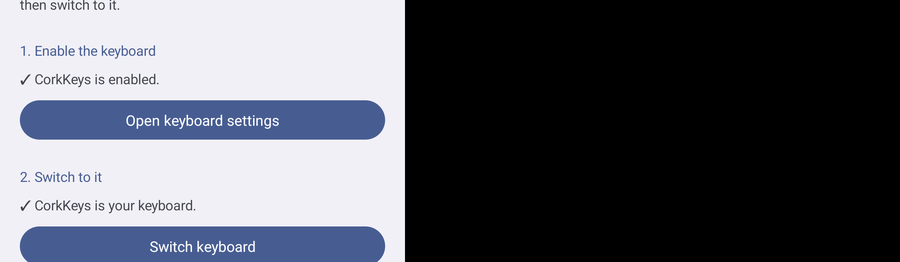
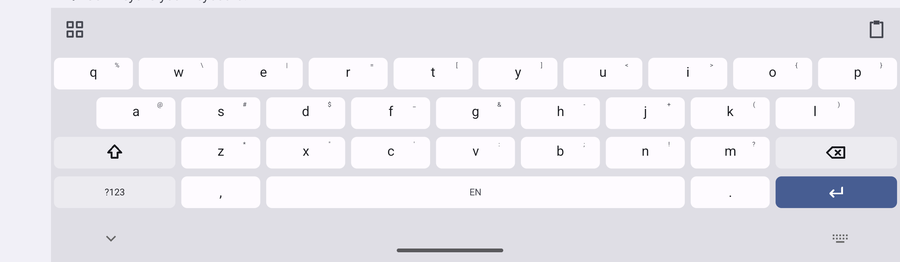
Incognito when apps ask for it; Taller and custom keyboard heights
Apps ask for incognito with IME_FLAG_NO_PERSONALIZED_LEARNING (Signal's
incognito keyboard setting, Firefox and Chrome private tabs). The keyboard
already learned nothing there; now it works like manual incognito too: the
space bar shows it and learned words stay out of suggestions.

Keyboard height gets a Taller preset (68 dp rows) and Custom, a slider from 40
to 96 dp per row. The cap on the screen's height still applies, so very tall
rows stop growing there.

Claude-Session: https://claude.ai/code/session_01MsbNdXmRHa3QQjMKrKv3XU

diff --git a/app/src/main/kotlin/io/github/nullangst/corkkeys/SettingsActivity.kt b/app/src/main/kotlin/io/github/nullangst/corkkeys/SettingsActivity.kt
@@ -84,11 +84,17 @@ class SettingsActivity : Activity() {
         add(Ui.header(this, pal, str(R.string.settings_keys)))
         switch(R.string.settings_number_row, prefs.numberRow) { prefs.numberRow = it }
         val heights = KeyHeight.entries
-        val heightNames = listOf(str(R.string.height_short), str(R.string.height_normal), str(R.string.height_tall))
-        add(Ui.row(this, pal, str(R.string.settings_height), heightNames[heights.indexOf(prefs.height)]) {
-            Ui.choose(this, pal, str(R.string.settings_height), heightNames, heights.indexOf(prefs.height)) {
-                prefs.height = heights[it]
-                build()
+        val heightNames = listOf(str(R.string.height_short), str(R.string.height_normal), str(R.string.height_tall), str(R.string.height_taller), str(R.string.height_custom))
+        val heightNow = if (prefs.customHeight) getString(R.string.height_custom_value, prefs.rowDp.toInt()) else heightNames[heights.indexOf(prefs.height)]
+        add(Ui.row(this, pal, str(R.string.settings_height), heightNow) {
+            val current = if (prefs.customHeight) heights.size else heights.indexOf(prefs.height)
+            Ui.choose(this, pal, str(R.string.settings_height), heightNames, current) {
+                if (it < heights.size) {
+                    prefs.height = heights[it]
+                    build()
+                } else {
+                    customHeight()
+                }
             }
         })
         switch(R.string.settings_bordered, prefs.bordered, R.string.settings_bordered_sub) { prefs.bordered = it }
@@ -158,6 +164,49 @@ class SettingsActivity : Activity() {
         add(Ui.note(this, pal, str(R.string.about_openboard)))
         list.addView(View(this), LinearLayout.LayoutParams(1, Ui.dp(this, 24f)))
         scroll.post { scroll.scrollTo(0, y) }
+    }
+
+    /** A slider for the row height, in dp, with the value shown as it moves. */
+    private fun customHeight() {
+        val min = Geometry.MIN_ROW_DP.toInt()
+        val max = Geometry.MAX_ROW_DP.toInt()
+        val label = android.widget.TextView(this).apply {
+            textSize = 16f
+            setTextColor(pal.text)
+            setPadding(Ui.dp(context, 24f), Ui.dp(context, 8f), Ui.dp(context, 24f), 0)
+        }
+        val bar = android.widget.SeekBar(this).apply {
+            this.max = max - min
+            progress = (prefs.rowDp.toInt() - min).coerceIn(0, max - min)
+            Ui.tint(this, pal)
+        }
+        fun show() {
+            label.text = getString(R.string.height_custom_value, bar.progress + min)
+        }
+        show()
+        bar.setOnSeekBarChangeListener(object : android.widget.SeekBar.OnSeekBarChangeListener {
+            override fun onProgressChanged(s: android.widget.SeekBar, p: Int, fromUser: Boolean) = show()
+            override fun onStartTrackingTouch(s: android.widget.SeekBar) {}
+            override fun onStopTrackingTouch(s: android.widget.SeekBar) {}
+        })
+        val box = LinearLayout(this).apply {
+            orientation = LinearLayout.VERTICAL
+            addView(label)
+            addView(bar, LinearLayout.LayoutParams(ViewGroup.LayoutParams.MATCH_PARENT, ViewGroup.LayoutParams.WRAP_CONTENT).apply {
+                setMargins(Ui.dp(context, 12f), Ui.dp(context, 12f), Ui.dp(context, 12f), Ui.dp(context, 4f))
+            })
+            addView(Ui.note(context, pal, getString(R.string.height_custom_note)))
+        }
+        android.app.AlertDialog.Builder(this, Themes.dialogTheme(pal))
+            .setTitle(R.string.height_custom_title)
+            .setView(box)
+            .setPositiveButton(android.R.string.ok) { _, _ ->
+                prefs.customRowDp = (bar.progress + min).toFloat()
+                prefs.heightRaw = Prefs.CUSTOM
+                build()
+            }
+            .setNegativeButton(android.R.string.cancel, null)
+            .show()
     }
 
     private fun open(url: String) {

diff --git a/app/src/main/kotlin/io/github/nullangst/corkkeys/KeyboardService.kt b/app/src/main/kotlin/io/github/nullangst/corkkeys/KeyboardService.kt
@@ -391,7 +391,7 @@ class KeyboardService : InputMethodService(), TouchHost, SuggestionStrip.Host, T
         }
         kv.enter = field.enter
         kv.spaceLabel = spaceLabel()
-        kv.setLayout(layout, frame(), prefs.height, mode(), rows)
+        kv.setLayout(layout, frame(), prefs.rowDp, mode(), rows)
         applyMode()
         syncPanelHeight()
         prepareDecoder()
@@ -399,8 +399,14 @@ class KeyboardService : InputMethodService(), TouchHost, SuggestionStrip.Host, T
 
     private fun spaceLabel(): String {
         val label = Languages.spaceLabel(prefs.language, prefs.languages, mixing())
-        return if (prefs.incognito) label + " · " + getString(R.string.space_incognito) else label
+        return if (incognito()) label + " · " + getString(R.string.space_incognito) else label
     }
+
+    /**
+     * Incognito: switched on by hand, or asked for by the app (Signal's incognito keyboard,
+     * private browser tabs). Nothing is learned and learned words aren't suggested.
+     */
+    private fun incognito(): Boolean = field.incognito(prefs.incognito)
 
     /** Words from every language that is on, in one sentence. Only matters with suggestions on. */
     private fun mixing(): Boolean = prefs.twoAtOnce && prefs.suggestions && prefs.languages.size > 1
@@ -458,7 +464,7 @@ class KeyboardService : InputMethodService(), TouchHost, SuggestionStrip.Host, T
         if (dicts.isEmpty() || dicts[0].language != prefs.language) return null
         val learned = LearnedWords.get(this)
         val removed = RemovedWords.get(this)
-        val learnOn = prefs.learn
+        val learnOn = prefs.learn && !incognito()
         val key = langs.joinToString(",") + "|" + dicts.size + "|" + learnOn + "|" + learned.version + "|" + removed.version
         if (key != correctorKey || corrector == null) {
             val keyMap = KeyMap.of(Letters.build(Letters.data(prefs.language), false))
@@ -522,7 +528,7 @@ class KeyboardService : InputMethodService(), TouchHost, SuggestionStrip.Host, T
 
     /** A word went in exactly as tapped out. Learned only with the switch on, outside incognito and private fields. */
     fun learn(word: String) {
-        val allowed = prefs.learn && !prefs.incognito && field.allowsLearning
+        val allowed = prefs.learn && !incognito() && field.allowsLearning
         if (!allowed) return
         val c = corrector() ?: return
         if (LearnedWords.get(this).typedInFull(word, true, c.inList(word))) correctorKey = ""

diff --git a/app/src/main/kotlin/io/github/nullangst/corkkeys/Geometry.kt b/app/src/main/kotlin/io/github/nullangst/corkkeys/Geometry.kt
@@ -32,7 +32,7 @@ class Box(val left: Float, val top: Float, val right: Float, val bottom: Float) 
  */
 class PlacedKey(val key: Key, val box: Box, val hit: Box, val row: Int)
 
-enum class KeyHeight(val dp: Float) { SHORT(48f), NORMAL(54f), TALL(60f) }
+enum class KeyHeight(val dp: Float) { SHORT(48f), NORMAL(54f), TALL(60f), TALLER(68f) }
 
 enum class Mode { DOCKED, ONE_LEFT, ONE_RIGHT, FLOATING }
 
@@ -86,7 +86,15 @@ object Geometry {
      * page with one row more than the letters squeezes its rows into the same space instead of
      * making the keyboard jump.
      */
-    fun plan(layout: Layout, frame: Frame, height: KeyHeight, mode: Mode, rowsForHeight: Int = layout.rows.size): Plan {
+    fun plan(layout: Layout, frame: Frame, height: KeyHeight, mode: Mode, rowsForHeight: Int = layout.rows.size): Plan =
+        plan(layout, frame, height.dp, mode, rowsForHeight)
+
+    /** The smallest and largest row height the custom height setting allows, in dp. */
+    const val MIN_ROW_DP = 40f
+    const val MAX_ROW_DP = 96f
+
+    /** Lays out [layout] with rows [rowDp] high, before the cap on the window's height. */
+    fun plan(layout: Layout, frame: Frame, rowDp: Float, mode: Mode, rowsForHeight: Int = layout.rows.size): Plan {
         val d = frame.density
         val usable = frame.usableWidth.toFloat()
         val floating = mode == Mode.FLOATING
@@ -111,7 +119,7 @@ object Geometry {
         }
 
         val pad = PAD_DP * d
-        var rowH = height.dp * d * (if (floating) FLOAT_SCALE else 1f)
+        var rowH = rowDp.coerceIn(MIN_ROW_DP, MAX_ROW_DP) * d * (if (floating) FLOAT_SCALE else 1f)
         val maxKeys = frame.windowHeight * (if (floating) FLOAT_MAX_HEIGHT_FRACTION else maxKeysFraction(frame))
         if (rowH * rowsForHeight > maxKeys) rowH = maxKeys / rowsForHeight
         val keysHeight = rowH * rowsForHeight

diff --git a/app/src/main/kotlin/io/github/nullangst/corkkeys/KeyboardView.kt b/app/src/main/kotlin/io/github/nullangst/corkkeys/KeyboardView.kt
@@ -26,7 +26,7 @@ class KeyboardView(ctx: Context, host: TouchHost) : View(ctx) {
         private set
     private var layout: Layout? = null
     private var frame: Frame? = null
-    private var keyHeight = KeyHeight.NORMAL
+    private var rowDp = KeyHeight.NORMAL.dp
     private var mode = Mode.DOCKED
     private var rowsForHeight = 4
 
@@ -68,10 +68,10 @@ class KeyboardView(ctx: Context, host: TouchHost) : View(ctx) {
 
     fun dp(v: Float) = v * resources.displayMetrics.density
 
-    fun setLayout(l: Layout, f: Frame, h: KeyHeight, m: Mode, rows: Int) {
+    fun setLayout(l: Layout, f: Frame, rowHeightDp: Float, m: Mode, rows: Int) {
         layout = l
         frame = f
-        keyHeight = h
+        rowDp = rowHeightDp
         mode = m
         rowsForHeight = rows
         replan()
@@ -86,7 +86,7 @@ class KeyboardView(ctx: Context, host: TouchHost) : View(ctx) {
         val l = layout ?: return
         val f = frame ?: return
         touch.cancelAll()
-        plan = Geometry.plan(l, f, keyHeight, mode, rowsForHeight)
+        plan = Geometry.plan(l, f, rowDp, mode, rowsForHeight)
         accessibility?.invalidateAll()
         requestLayout()
         invalidate()

diff --git a/app/src/main/kotlin/io/github/nullangst/corkkeys/Prefs.kt b/app/src/main/kotlin/io/github/nullangst/corkkeys/Prefs.kt
@@ -105,6 +105,15 @@ class Prefs(val kv: KeyValues, systemLanguage: String = "en") {
     /** The keyboard picked for the mic button, as an input method id. Empty: none, no mic. */
     var voiceIme by str("voice_ime", "")
 
+    /** Row height in dp when the height is set to custom. */
+    var customRowDp by float("custom_row_dp", KeyHeight.TALLER.dp)
+
+    /** Whether the height is the custom one rather than a preset. */
+    val customHeight: Boolean get() = heightRaw == CUSTOM
+
+    /** The row height to draw, in dp: the preset's, or the custom one. */
+    val rowDp: Float get() = if (customHeight) customRowDp.coerceIn(Geometry.MIN_ROW_DP, Geometry.MAX_ROW_DP) else height.dp
+
     var height: KeyHeight
         get() = KeyHeight.entries.firstOrNull { it.name == heightRaw } ?: KeyHeight.NORMAL
         set(v) {
@@ -129,6 +138,7 @@ class Prefs(val kv: KeyValues, systemLanguage: String = "en") {
     val language: String get() = current.takeIf { it in languages } ?: languages.first()
 
     companion object {
+        const val CUSTOM = "CUSTOM"
         private const val FILE = "settings"
 
         fun open(ctx: Context): Prefs {

diff --git a/app/src/test/kotlin/io/github/nullangst/corkkeys/GeometryTest.kt b/app/src/test/kotlin/io/github/nullangst/corkkeys/GeometryTest.kt
@@ -55,7 +55,12 @@ class GeometryTest {
         val short = Geometry.plan(l, f, KeyHeight.SHORT, Mode.DOCKED).height
         val normal = Geometry.plan(l, f, KeyHeight.NORMAL, Mode.DOCKED).height
         val tall = Geometry.plan(l, f, KeyHeight.TALL, Mode.DOCKED).height
-        assertTrue(short < normal && normal < tall)
+        val taller = Geometry.plan(l, f, KeyHeight.TALLER, Mode.DOCKED).height
+        assertTrue(short < normal && normal < tall && tall < taller)
+        val custom = Geometry.plan(l, f, 80f, Mode.DOCKED).height
+        assertTrue("a custom height taller than Taller", custom > taller)
+        val huge = Geometry.plan(l, f, 500f, Mode.DOCKED).height
+        assertTrue("custom heights stop at the cap", huge <= f.windowHeight * Geometry.MAX_HEIGHT_FRACTION + 6 * 3 * f.density)
         for (fr in frames) for (h in KeyHeight.entries) {
             val p = Geometry.plan(l, fr, h, Mode.DOCKED)
             assertTrue("keys stay under the height cap", p.height - fr.insetBottom <= fr.windowHeight * Geometry.maxKeysFraction(fr) + 6 * 3.5f * fr.density)

diff --git a/app/src/test/kotlin/io/github/nullangst/corkkeys/PrefsTest.kt b/app/src/test/kotlin/io/github/nullangst/corkkeys/PrefsTest.kt
@@ -34,6 +34,19 @@ class PrefsTest {
     }
 
     @Test
+    fun customHeight() {
+        val p = Prefs(MapKeyValues())
+        assertEquals(KeyHeight.NORMAL.dp, p.rowDp)
+        p.height = KeyHeight.TALLER
+        assertEquals(68f, p.rowDp)
+        p.customRowDp = 80f
+        p.heightRaw = Prefs.CUSTOM
+        assertEquals(80f, p.rowDp)
+        p.customRowDp = 500f
+        assertEquals("kept inside the slider's range", Geometry.MAX_ROW_DP, p.rowDp)
+    }
+
+    @Test
     fun firstLanguageFollowsThePhone() {
         assertEquals(listOf("de"), Prefs(MapKeyValues(), "de").languages)
         assertEquals("es", Prefs(MapKeyValues(), "es").language)

diff --git a/app/src/test/kotlin/io/github/nullangst/corkkeys/FieldTest.kt b/app/src/test/kotlin/io/github/nullangst/corkkeys/FieldTest.kt
@@ -38,6 +38,14 @@ class FieldTest {
     }
 
     @Test
+    fun appsCanAskForIncognito() {
+        // Signal's incognito keyboard, Firefox private tabs: IME_FLAG_NO_PERSONALIZED_LEARNING.
+        assertTrue(Field.read(text, noLearningFlag).incognito(false))
+        assertTrue("switched on by hand", Field.read(text, 0).incognito(true))
+        assertFalse(Field.read(text, 0).incognito(false))
+    }
+
+    @Test
     fun noSuggestionsFlagAndItsSwitch() {
         val f = Field.read(text or 0x80000, 0)
         assertFalse(f.allowsSuggestions(false))

diff --git a/app/src/main/kotlin/io/github/nullangst/corkkeys/Field.kt b/app/src/main/kotlin/io/github/nullangst/corkkeys/Field.kt
@@ -45,6 +45,9 @@ class FieldInfo(
     val allowsDoubleSpace: Boolean get() = text
     val allowsAutoCaps: Boolean get() = text
 
+    /** Incognito here: switched on by hand ([manual]), or asked for by the app. */
+    fun incognito(manual: Boolean): Boolean = manual || noLearning
+
     companion object {
         val PLAIN = FieldInfo(FieldKind.TEXT, false, false, false, Enter.NEWLINE, EditorInfo.IME_ACTION_NONE, InputType.TYPE_CLASS_TEXT, false)
     }

diff --git a/README.md b/README.md
@@ -13,6 +13,7 @@ A new install is a plain keyboard. Suggestions, autocorrect, swipe and learned w
 - ?123 opens the symbols page, and a key there opens a second page with currency, math signs, °, ©, ®, ™, • and the less common brackets. The currency key follows the language: € for German and Spanish, $ for English.
 - A number pad for number, date and time fields and a phone pad for phone fields, opened on their own from the field type.
 - An optional number row, off by default.
+- Incognito, by hand from the long-press space menu, or when an app asks for it (Signal's incognito keyboard setting, Firefox and Chrome private tabs, and anything else that sets Android's no-personalised-learning flag). The space bar shows it, nothing is learned, and learned words aren't suggested.
 - Long-press the space bar for the language menu and the incognito switch. The space bar always shows the language: `EN`, or `EN • DE` with two languages at once.
 - Swipe typing, written from scratch: no Google library, no model files.
 - Suggestions and autocorrect from the bundled word lists, on the phone. Swear words and slurs are never corrected into something else.
@@ -21,7 +22,8 @@ A new install is a plain keyboard. Suggestions, autocorrect, swipe and learned w
 - Slide along the space bar to move the cursor. Slide left from backspace to delete whole words, slide back right to put them back before you lift. Hold backspace to repeat.
 - A tools row with the editing panel (arrows, select, select all, cut, copy, paste, start and end of line), one-handed mode, a floating keyboard you drag anywhere, a voice keyboard handoff and settings.
 - Android's spell checker service, from the same word lists, for red underlines in other apps.
-- Themes: Light, Dark, Verdigris, Kawaii Light, Kawaii Dark and Material You, the same palettes as Corkboard. Bordered or flat keys, three heights.
+- Themes: Light, Dark, Verdigris, Kawaii Light, Kawaii Dark and Material You, the same palettes as Corkboard. Bordered or flat keys.
+- Keyboard height: Short, Normal, Tall, Taller, or a custom row height on a slider.
 - TalkBack support with explore-by-touch typing.
 - Works on the lock screen right after a reboot.
 

diff --git a/PRIVACY.md b/PRIVACY.md
@@ -27,8 +27,8 @@ Settings live in device-protected storage so the keyboard works on the lock scre
 ## Fields that stay private
 
 - Password fields: no suggestions, no autocorrect, no swipe, no key bubbles, nothing learned.
-- Fields that ask for no personalised learning (`IME_FLAG_NO_PERSONALIZED_LEARNING`, used by private browser tabs and incognito apps): nothing is learned.
-- Manual incognito: the switch in the long-press space menu, or on the Privacy page, turns learning off everywhere until you switch it back. The space bar shows it while it's on.
+- Incognito fields: apps ask for this with Android's `IME_FLAG_NO_PERSONALIZED_LEARNING`. Signal with its "Incognito keyboard" setting on does, and so do Firefox and Chrome private tabs. In those fields nothing is learned, your learned words aren't offered as suggestions, and the space bar shows "incognito".
+- Manual incognito: the switch in the long-press space menu, or on the Privacy page, does the same everywhere until you switch it back.
 
 ## Clipboard
 

diff --git a/changes.md b/changes.md
@@ -11,6 +11,8 @@
 * Word list credit in the About section of settings
 * Word lists load whether the APK holds them gzipped or unpacked: on a device they never loaded, which left suggestions, autocorrect, swipe and the spell checker empty
 * A word list that fails to load is named in settings instead of failing silently
+* Incognito when an app asks for it (Signal's incognito keyboard, private browser tabs): the space bar shows it, and learned words stay out of suggestions as well as nothing being learned
+* Keyboard height: a Taller preset and a custom row height slider
 * Landscape: the keys take at most 34% of the screen's height (42% in portrait) and the suggestion strip is shorter, so the app keeps room for the field being typed in
 * Settings screens scroll a focused field back into view when the keyboard opens, so the setup screen's test field isn't hidden in landscape
 * Screenshots in the README, from the device test
